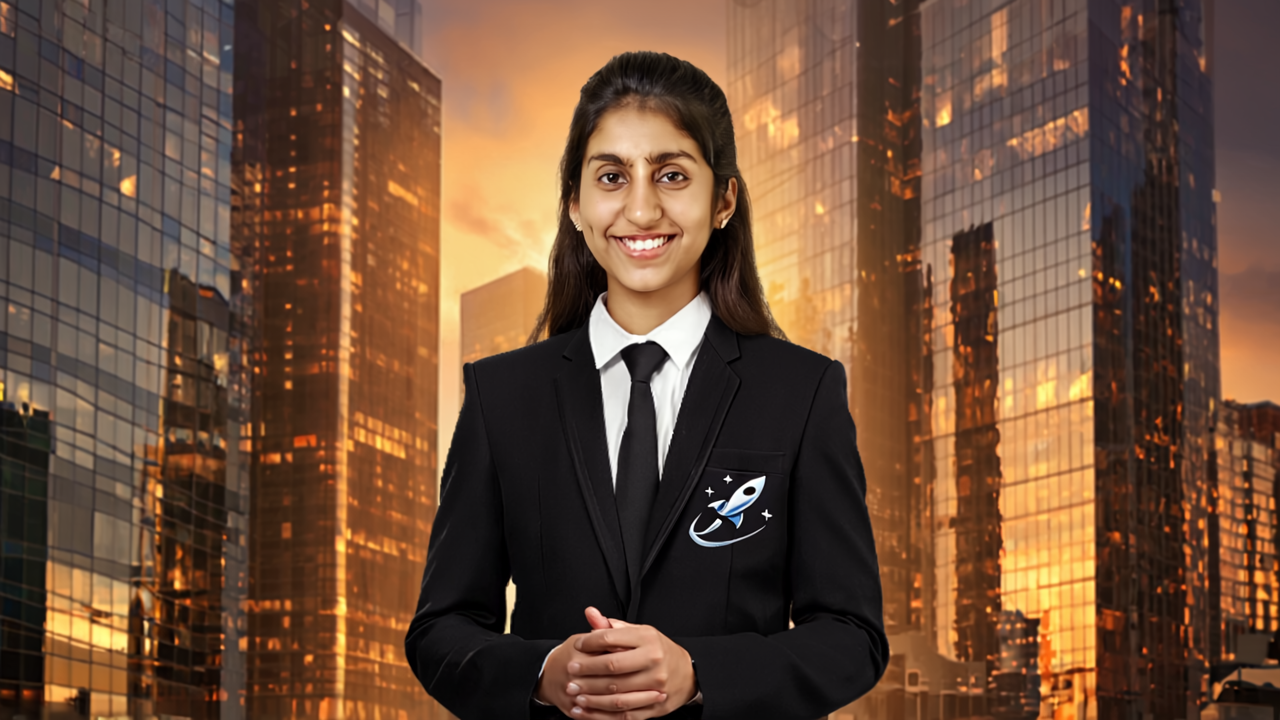
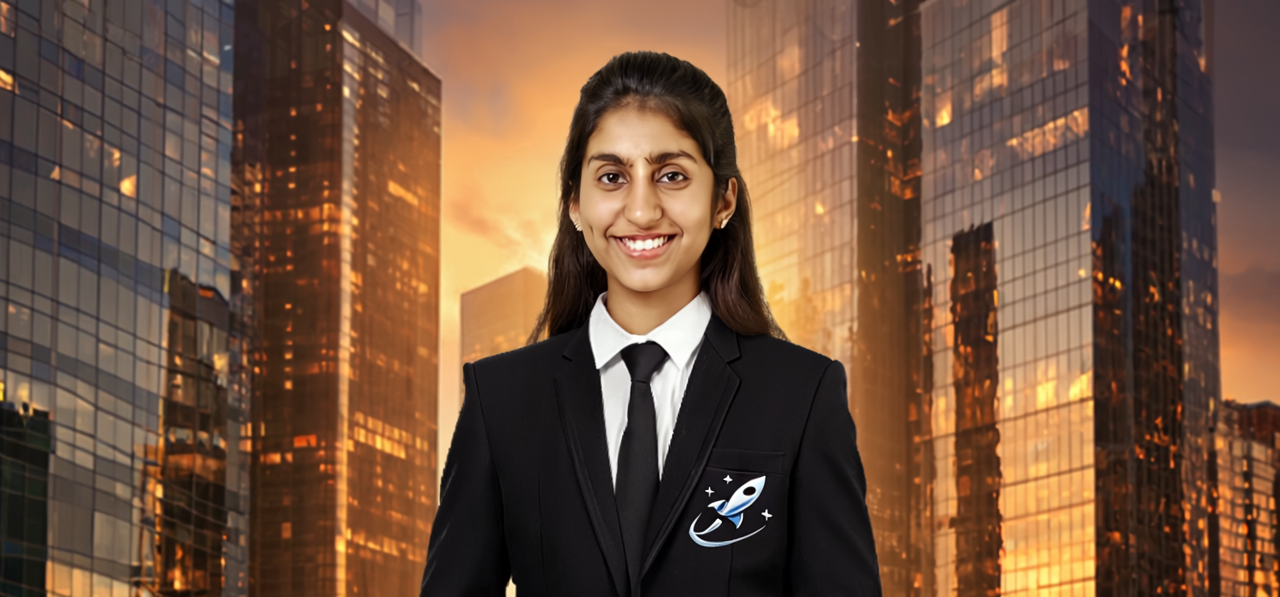
Add files via upload

diff --git a/team.html b/team.html
@@ -1801,6 +1801,20 @@ h1 {
   <div class="card-accent"></div>
 </div>
 
+<div class="team-card" onclick="openPopup('popup-riya')">
+  <div class="card-image">
+    <img src="riya.png" alt="Riya Pallavi" class="team-image" />
+    <div class="card-overlay"></div>
+  </div>
+  <div class="card-content">
+    <h3>Riya Pallavi</h3>
+    <div class="role-tag">CI/CD Intern (Trial)</div>
+    <p>Currently interning in our DevOps team, Riya is helping build and automate CI/CD pipelines. She is on a 3-month trial and may be offered a full-time role based on performance.</p>
+  </div>
+  <div class="card-accent"></div>
+</div>
+
+
 <div class="team-card" onclick="openPopup('popup-narayan')">
   <div class="card-image">
     <img src="n.png" alt="Narayan Kataruka" class="team-image" />
@@ -2338,6 +2352,32 @@ h1 {
     </div>
   </div>
 </div>
+
+
+<div id="popup-riya" class="fixed inset-0 bg-black bg-opacity-90 flex items-center justify-center z-50 hidden backdrop-blur-sm">
+  <div class="bg-gradient-to-br from-gray-800 via-gray-900 to-black text-white p-8 rounded-3xl max-w-lg w-full mx-4 relative border-2 border-cyan-300 shadow-2xl shadow-cyan-500/20 backdrop-filter backdrop-blur-xl">
+    <div class="absolute inset-0 bg-gradient-to-r from-cyan-500/10 via-transparent to-blue-500/10 rounded-3xl"></div>
+    <button onclick="closePopup('popup-riya')" class="absolute top-4 right-4 text-cyan-300 text-3xl hover:text-white transition-all duration-300 hover:rotate-90 z-10">×</button>
+    
+    <div class="relative z-10">
+      <div class="flex items-center mb-6">
+        <img src="riya.png" alt="Riya Pallavi" class="w-20 h-20 rounded-full border-3 border-cyan-400 mr-4 shadow-lg" />
+        <div>
+          <h3 class="text-2xl font-bold mb-1 bg-gradient-to-r from-cyan-300 to-cyan-500 bg-clip-text text-transparent">Riya Pallavi</h3>
+          <p class="text-cyan-300 font-semibold">CI/CD Engineer (Trial)</p>
+        </div>
+      </div>
+      
+      <div class="bg-gradient-to-r from-cyan-500/20 to-blue-500/20 p-4 rounded-2xl border border-cyan-400/30">
+        <p class="text-sm text-gray-200 leading-relaxed">
+          Riya Pallavi is currently evaluating a 3-month trial role at Xploreon as a CI/CD Engineer. She plays a key role in maintaining our deployment architecture, automating build pipelines, and ensuring code delivery efficiency. If her performance continues to exceed expectations, she will be offered a full-time position.
+        </p>
+      </div>
+    </div>
+  </div>
+</div>
+
+
 
 <div id="popup-launchpad" class="fixed inset-0 bg-black bg-opacity-90 flex items-center justify-center z-50 hidden backdrop-blur-sm">
   <div class="bg-gradient-to-br from-gray-800 via-gray-900 to-black text-white p-8 rounded-3xl max-w-lg w-full mx-4 relative border-2 border-cyan-300 shadow-2xl shadow-cyan-500/20 backdrop-filter backdrop-blur-xl">
